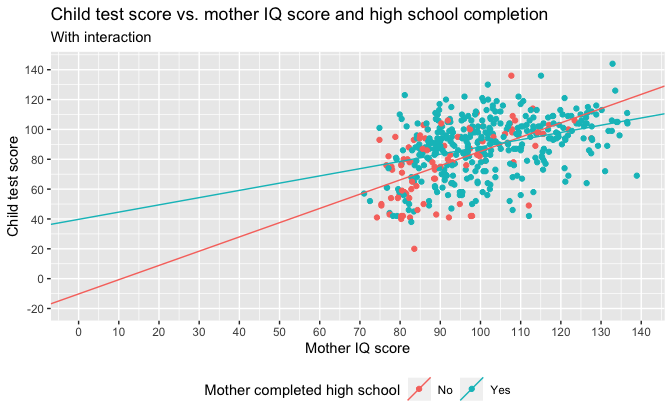
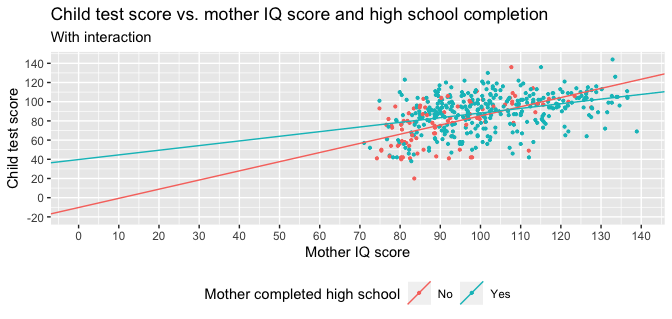
Initial commit

diff --git a/KidIQ/kidiq_tv.md b/KidIQ/kidiq_tv.md
@@ -298,7 +298,7 @@ kids %>%
 ``` r
 kids %>% 
   ggplot(aes(mom_iq, kid_score, color = factor(mom_hs))) +
-  geom_point() +
+  geom_point(size = 0.75) +
   geom_abline(
     aes(slope = slope, intercept = intercept, color = factor(mom_hs)),
     data = lines
